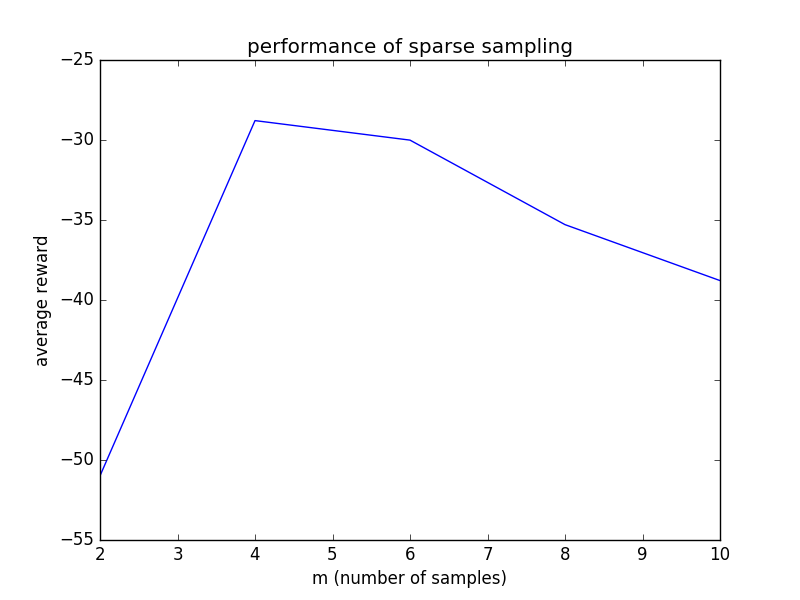
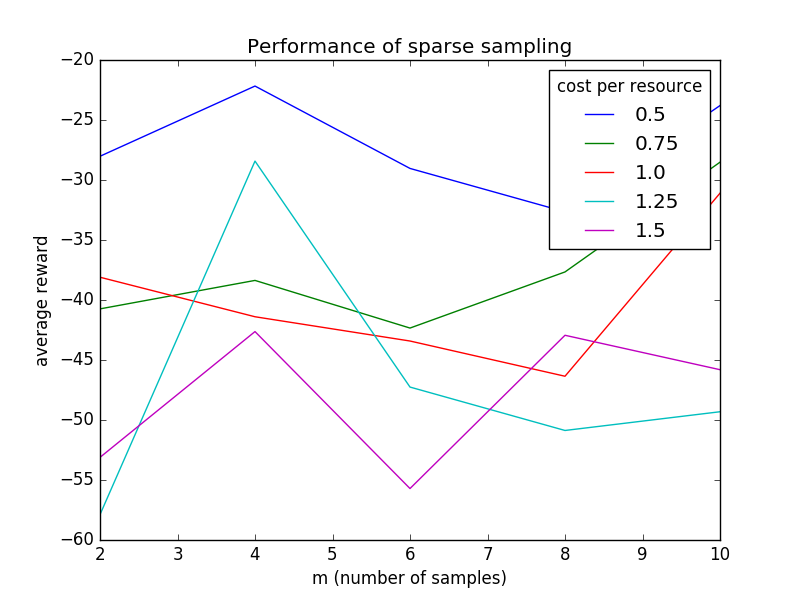
run w/ multiple chi

diff --git a/src/sparse_sample.py b/src/sparse_sample.py
@@ -34,12 +34,12 @@ def sparse_sampling(A, grid, d, m=5, gamma=.95):
             best = (a, u)
     return best
 
-def simulate_sparse(n, m, num_sims=10, simulation_depth=10, d=2):
+def simulate_sparse(n, m, cpr=1, num_sims=10, simulation_depth=10, d=2):
     print('m = {}'.format(m))
     performance = []
     A = all_possible_actions(n)
     for i in range(num_sims):
-        grid = FireGrid(n)
+        grid = FireGrid(n, cost_per_resource=cpr)
         for t in range(simulation_depth):
             a, _ = sparse_sampling(A, grid, d, m=m)
             grid.set_resources(a)
@@ -51,8 +51,8 @@ ms = range(2, 11, 2)
 performances = [np.mean(simulate_sparse(2, m)) for m in ms]
 cost_per_resource = np.linspace(.5, 1.5, num=5)
 for cpr in cost_per_resource:
-    rewards = [simulate_sparse(m,cpr) for m in ms] 
-    plt.plot(ms, [np.mean(reward) for reward in rewards], label=f'{cpr}')
+    rewards = [simulate_sparse(2, m, cpr=cpr) for m in ms] 
+    plt.plot(ms, [np.mean(reward) for reward in rewards], label="{}".format(cpr))
 plt.legend(title="cost per resource")
 plt.ylabel("average reward")
 plt.xlabel("m (number of samples)")
